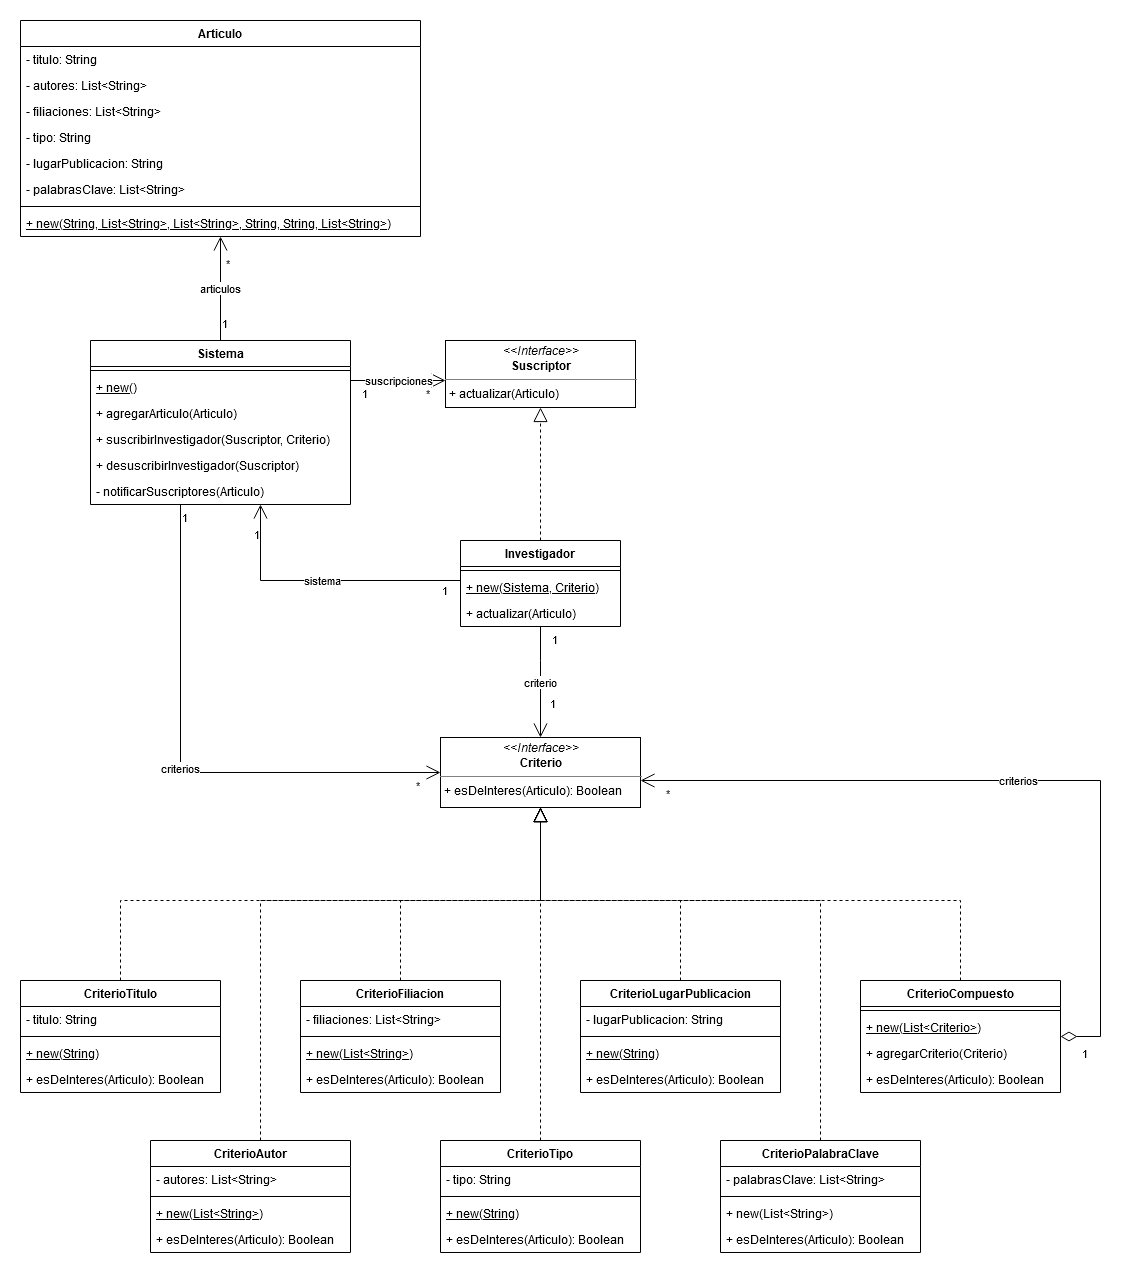
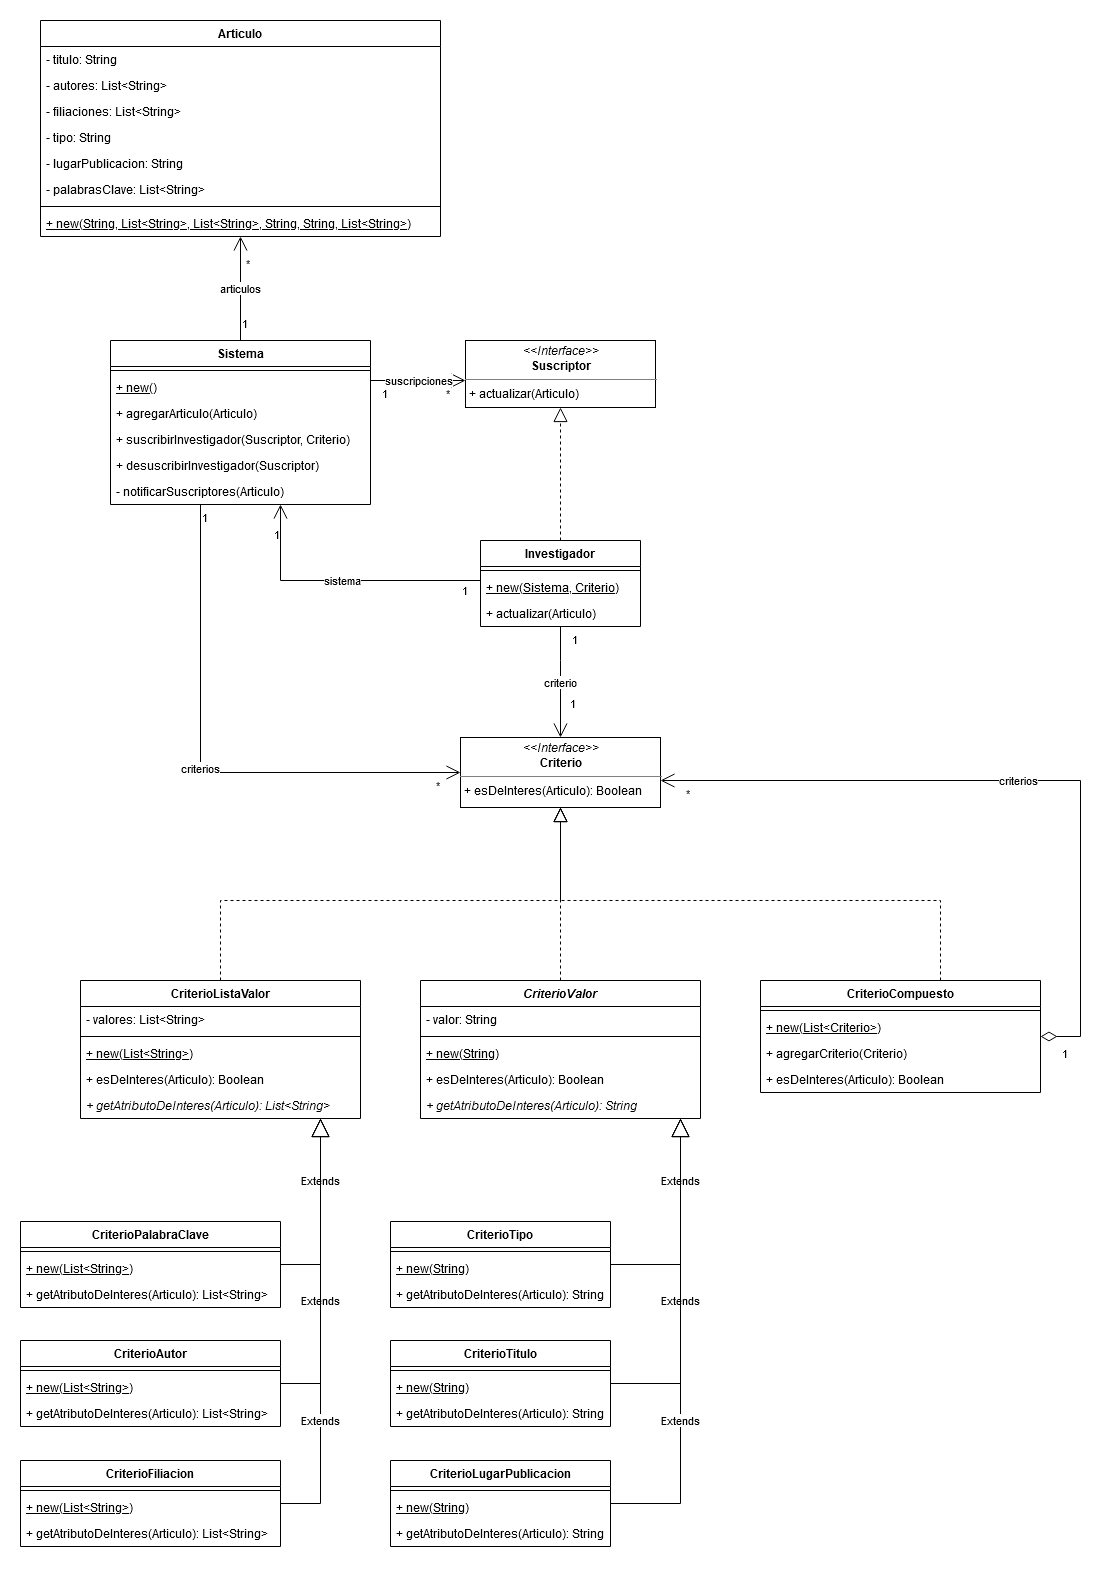
Refactor TP08 exercise 2

diff --git a/test/ar/unq/po2/tp08/publicaciones/CriterioPalabraClaveTest.java b/test/ar/unq/po2/tp08/publicaciones/CriterioPalabraClaveTest.java
@@ -1,0 +1,40 @@
+package ar.unq.po2.tp08.publicaciones;
+
+import static org.junit.jupiter.api.Assertions.*;
+import static org.mockito.Mockito.*;
+
+import java.util.List;
+
+import org.junit.jupiter.api.BeforeEach;
+import org.junit.jupiter.api.Test;
+import org.mockito.Mock;
+import org.mockito.MockitoAnnotations;
+
+class CriterioPalabraClaveTest {
+
+	private @Mock Articulo articulo;
+	private CriterioListaValor criterio;
+
+	@BeforeEach
+	void setUp() throws Exception {
+		MockitoAnnotations.initMocks(this);
+		this.criterio = new CriterioPalabraClave(List.of("oop", "patterns"));
+	}
+
+	@Test
+	void testConstructor() {
+		// verify
+		assertNotNull(this.criterio);
+	}
+	
+	@Test
+	void testEsDeInteres() {
+		// set up
+		when(this.articulo.getPalabrasClave()).thenReturn(List.of("oop"));
+		// excercise
+		Boolean resultado = this.criterio.esDeInteres(this.articulo);
+		// verify
+		assertTrue(resultado);
+	}
+
+}

diff --git a/src/ar/unq/po2/tp08/publicaciones/CriterioPalabraClave.java b/src/ar/unq/po2/tp08/publicaciones/CriterioPalabraClave.java
@@ -1,28 +1,16 @@
 package ar.unq.po2.tp08.publicaciones;
 
-import java.util.ArrayList;
 import java.util.List;
 
-public class CriterioPalabraClave implements Criterio {
+public class CriterioPalabraClave extends CriterioListaValor {
 	
-	private List<String> palabrasClave;
-
 	public CriterioPalabraClave(List<String> palabrasClave) {
-		this.setPalabrasClave(palabrasClave);
-	}
-
-	private List<String> getPalabrasClave() {
-		return palabrasClave;
-	}
-
-	private void setPalabrasClave(List<String> autores) {
-		this.palabrasClave = autores;
+		super(palabrasClave);
 	}
 
 	@Override
-	public Boolean esDeInteres(Articulo articulo) {
-		List<String> palabrasClavesInteresantes = new ArrayList<String>(this.getPalabrasClave());
-		return palabrasClavesInteresantes.retainAll(articulo.getPalabrasClave());
+	protected List<String> getAtributoDeInteres(Articulo articulo) {
+		return articulo.getPalabrasClave();
 	}
 
 }

diff --git a/src/ar/unq/po2/tp08/publicaciones/CriterioFiliacion.java b/src/ar/unq/po2/tp08/publicaciones/CriterioFiliacion.java
@@ -1,28 +1,16 @@
 package ar.unq.po2.tp08.publicaciones;
 
-import java.util.ArrayList;
 import java.util.List;
 
-public class CriterioFiliacion implements Criterio {
+public class CriterioFiliacion extends CriterioListaValor {
 	
-	private List<String> filiaciones;
-
 	public CriterioFiliacion(List<String> filiaciones) {
-		this.setFiliaciones(filiaciones);
-	}
-
-	private List<String> getFiliaciones() {
-		return filiaciones;
-	}
-
-	private void setFiliaciones(List<String> filiaciones) {
-		this.filiaciones = filiaciones;
+		super(filiaciones);
 	}
 
 	@Override
-	public Boolean esDeInteres(Articulo articulo) {
-		List<String> filiacionesInteresantes = new ArrayList<String>(this.getFiliaciones());
-		return filiacionesInteresantes.retainAll(articulo.getFiliaciones());
+	protected List<String> getAtributoDeInteres(Articulo articulo) {
+		return articulo.getFiliaciones();
 	}
 
 }

diff --git a/src/ar/unq/po2/tp08/publicaciones/CriterioAutor.java b/src/ar/unq/po2/tp08/publicaciones/CriterioAutor.java
@@ -1,28 +1,16 @@
 package ar.unq.po2.tp08.publicaciones;
 
-import java.util.ArrayList;
 import java.util.List;
 
-public class CriterioAutor implements Criterio {
+public class CriterioAutor extends CriterioListaValor {
 	
-	private List<String> autores;
-
 	public CriterioAutor(List<String> autores) {
-		this.setAutores(autores);
-	}
-
-	private List<String> getAutores() {
-		return autores;
-	}
-
-	private void setAutores(List<String> autores) {
-		this.autores = autores;
+		super(autores);
 	}
 
 	@Override
-	public Boolean esDeInteres(Articulo articulo) {
-		List<String> autoresInteresantes = new ArrayList<String>(this.getAutores());
-		return autoresInteresantes.retainAll(articulo.getAutores());
+	protected List<String> getAtributoDeInteres(Articulo articulo) {
+		return articulo.getAutores();
 	}
 
 }

diff --git a/src/ar/unq/po2/tp08/publicaciones/CriterioLugarPublicacion.java b/src/ar/unq/po2/tp08/publicaciones/CriterioLugarPublicacion.java
@@ -1,25 +1,16 @@
 package ar.unq.po2.tp08.publicaciones;
 
-public class CriterioLugarPublicacion implements Criterio {
+public class CriterioLugarPublicacion extends CriterioValor {
 
-	private String lugarPublicacion;
-	
 	public CriterioLugarPublicacion(String lugarPublicacion) {
-		this.setLugarPublicacion(lugarPublicacion);
-	}
-
-	private String getLugarPublicacion() {
-		return lugarPublicacion;
-	}
-
-	private void setLugarPublicacion(String lugarPublicacion) {
-		this.lugarPublicacion = lugarPublicacion;
+		super(lugarPublicacion);
 	}
 
 	@Override
-	public Boolean esDeInteres(Articulo articulo) {
-		return this.getLugarPublicacion().equalsIgnoreCase(articulo.getLugarPublicacion());
+	protected String getAtributoDeInteres(Articulo articulo) {
+		return articulo.getLugarPublicacion();
 	}
+
 
 }
 

diff --git a/src/ar/unq/po2/tp08/publicaciones/CriterioListaValor.java b/src/ar/unq/po2/tp08/publicaciones/CriterioListaValor.java
@@ -1,0 +1,30 @@
+package ar.unq.po2.tp08.publicaciones;
+
+import java.util.ArrayList;
+import java.util.List;
+
+public abstract class CriterioListaValor implements Criterio {
+	
+	private List<String> valores;
+	
+	public CriterioListaValor(List<String> valores) {
+		this.setPalabrasClave(valores);
+	}
+	
+	private List<String> getValores() {
+		return valores;
+	}
+
+	private void setPalabrasClave(List<String> valores) {
+		this.valores = valores;
+	}
+
+	@Override
+	public Boolean esDeInteres(Articulo articulo) {
+		List<String> valoresInteresantes = new ArrayList<String>(this.getValores());
+		return valoresInteresantes.retainAll(this.getAtributoDeInteres(articulo));
+	}
+	
+	protected abstract List<String> getAtributoDeInteres(Articulo articulo);
+	
+}

diff --git a/src/ar/unq/po2/tp08/publicaciones/CriterioTitulo.java b/src/ar/unq/po2/tp08/publicaciones/CriterioTitulo.java
@@ -1,24 +1,14 @@
 package ar.unq.po2.tp08.publicaciones;
 
-public class CriterioTitulo implements Criterio {
+public class CriterioTitulo extends CriterioValor {
 
-	private String titulo;
-	
 	public CriterioTitulo(String titulo) {
-		this.setTitulo(titulo);
+		super(titulo);
 	}
-
-	private String getTitulo() {
-		return titulo;
-	}
-
-	private void setTitulo(String titulo) {
-		this.titulo = titulo;
-	}
-
+	
 	@Override
-	public Boolean esDeInteres(Articulo articulo) {
-		return this.getTitulo().equalsIgnoreCase(articulo.getTitulo());
+	protected String getAtributoDeInteres(Articulo articulo) {
+		return articulo.getTitulo();
 	}
 
 }

diff --git a/src/ar/unq/po2/tp08/publicaciones/CriterioTipo.java b/src/ar/unq/po2/tp08/publicaciones/CriterioTipo.java
@@ -1,24 +1,14 @@
 package ar.unq.po2.tp08.publicaciones;
 
-public class CriterioTipo implements Criterio {
-
-	private String tipo;
+public class CriterioTipo extends CriterioValor {
 	
 	public CriterioTipo(String tipo) {
-		this.setTipo(tipo);
+		super(tipo);
 	}
-
-	private String getTipo() {
-		return tipo;
-	}
-
-	private void setTipo(String tipo) {
-		this.tipo = tipo;
-	}
-
+	
 	@Override
-	public Boolean esDeInteres(Articulo articulo) {
-		return this.getTipo().equalsIgnoreCase(articulo.getTipo());
+	protected String getAtributoDeInteres(Articulo articulo) {
+		return articulo.getTipo();
 	}
 
 }

diff --git a/src/ar/unq/po2/tp08/publicaciones/CriterioValor.java b/src/ar/unq/po2/tp08/publicaciones/CriterioValor.java
@@ -1,0 +1,26 @@
+package ar.unq.po2.tp08.publicaciones;
+
+public abstract class CriterioValor implements Criterio {
+
+	private String valor;
+	
+	public CriterioValor(String valor) {
+		this.setValor(valor);
+	}
+
+	private String getValor() {
+		return valor;
+	}
+
+	private void setValor(String valor) {
+		this.valor = valor;
+	}
+
+	@Override
+	public Boolean esDeInteres(Articulo articulo) {
+		return this.getValor().equalsIgnoreCase(this.getAtributoDeInteres(articulo));
+	}
+	
+	protected abstract String getAtributoDeInteres(Articulo articulo);
+	
+}
